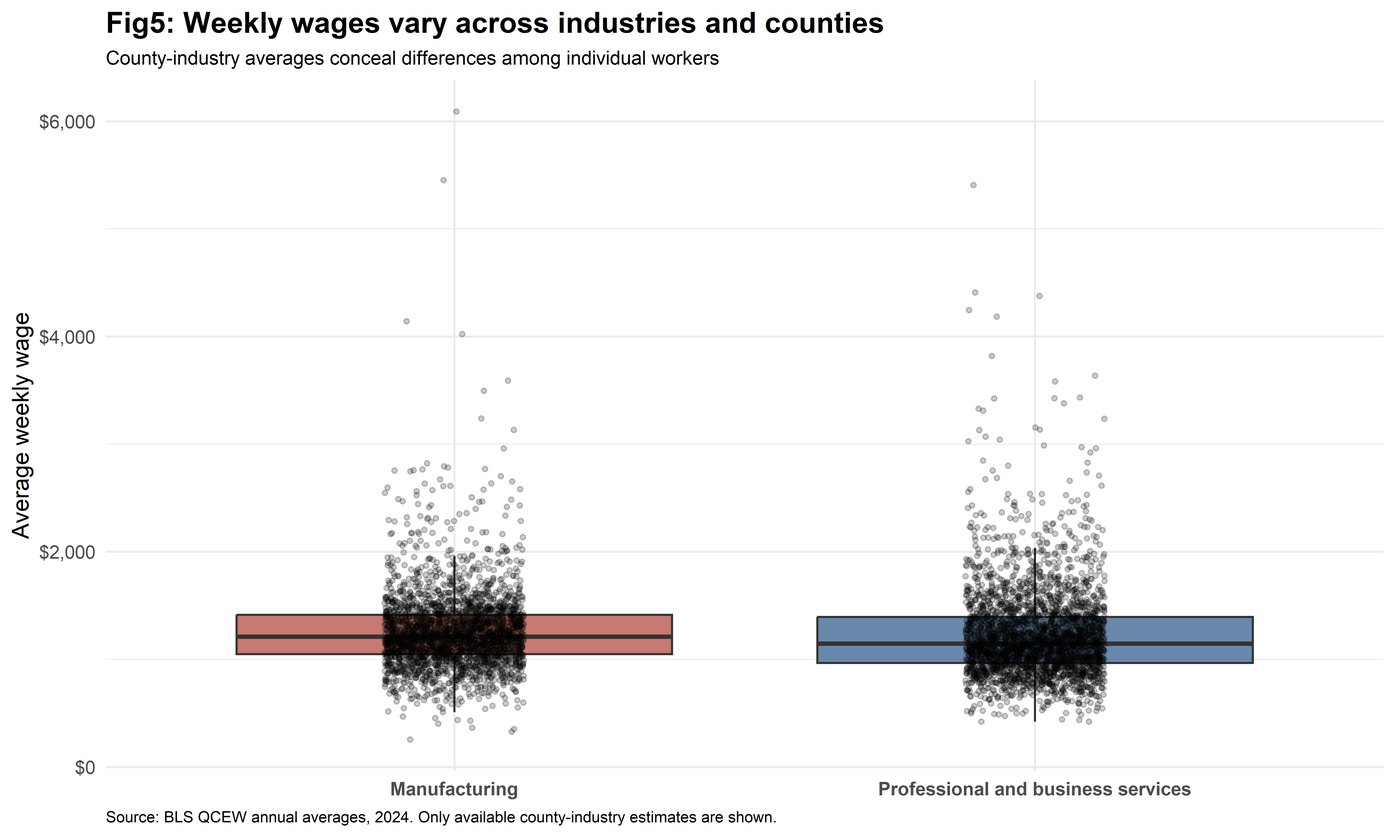
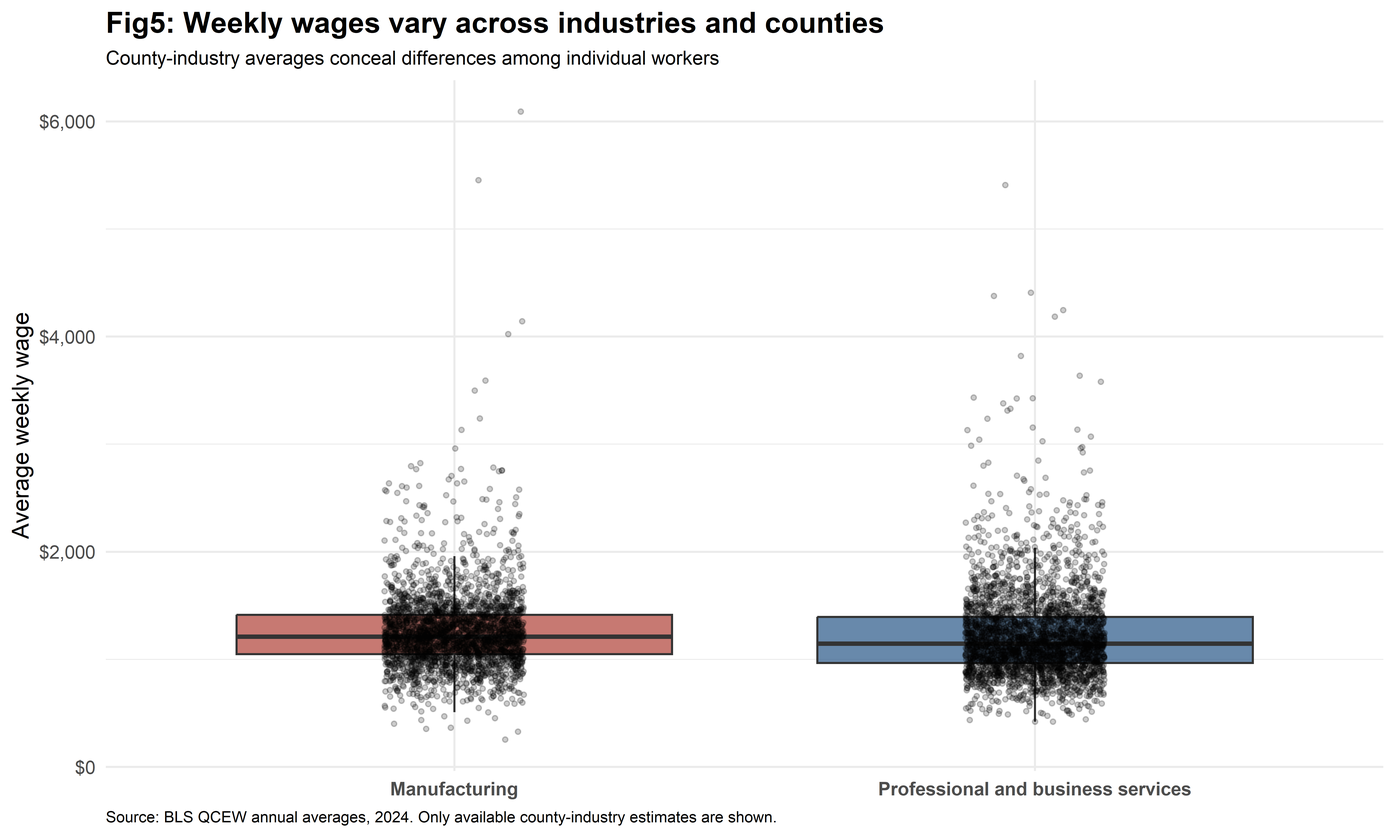
blog5.1

Changed region(s): [[0.6857, 0.4667, 0.8103, 0.8711], [0.2493, 0.5289, 0.374, 0.8711]]

diff --git a/docs/blog/posts/blog5/index.html b/docs/blog/posts/blog5/index.html
@@ -193,30 +193,30 @@ window.Quarto = {
     <h2 id="toc-title">On this page</h2>
    
   <ul class="collapse">
-  <li><a href="#the-geography-of-americas-industries" id="toc-the-geography-of-americas-industries" class="nav-link active" data-scroll-target="#the-geography-of-americas-industries">The Geography of America’s Industries</a>
+  <li><a href="#the-geography-of-americas-industries" id="toc-the-geography-of-americas-industries" class="nav-link active" data-scroll-target="#the-geography-of-americas-industries"><span class="header-section-number">1</span> The Geography of America’s Industries</a>
   <ul class="collapse">
-  <li><a href="#the-broad-industrial-landscape" id="toc-the-broad-industrial-landscape" class="nav-link" data-scroll-target="#the-broad-industrial-landscape">The broad industrial landscape</a></li>
-  <li><a href="#two-case-studies-manufacturing-and-professional-services" id="toc-two-case-studies-manufacturing-and-professional-services" class="nav-link" data-scroll-target="#two-case-studies-manufacturing-and-professional-services">Two case studies: manufacturing and professional services</a></li>
+  <li><a href="#the-broad-industrial-landscape" id="toc-the-broad-industrial-landscape" class="nav-link" data-scroll-target="#the-broad-industrial-landscape"><span class="header-section-number">1.1</span> The broad industrial landscape</a></li>
+  <li><a href="#two-case-studies-manufacturing-and-professional-services" id="toc-two-case-studies-manufacturing-and-professional-services" class="nav-link" data-scroll-target="#two-case-studies-manufacturing-and-professional-services"><span class="header-section-number">1.2</span> Two case studies: manufacturing and professional services</a></li>
   </ul></li>
-  <li><a href="#how-does-industrial-geography-relate-to-household-income-wages-and-jobs" id="toc-how-does-industrial-geography-relate-to-household-income-wages-and-jobs" class="nav-link" data-scroll-target="#how-does-industrial-geography-relate-to-household-income-wages-and-jobs">How Does Industrial Geography Relate to Household Income, Wages, and Jobs?</a>
+  <li><a href="#how-does-industrial-geography-relate-to-household-income-wages-and-jobs" id="toc-how-does-industrial-geography-relate-to-household-income-wages-and-jobs" class="nav-link" data-scroll-target="#how-does-industrial-geography-relate-to-household-income-wages-and-jobs"><span class="header-section-number">2</span> How Does Industrial Geography Relate to Household Income, Wages, and Jobs?</a>
   <ul class="collapse">
-  <li><a href="#does-manufacturing-specialization-correspond-to-higher-household-income" id="toc-does-manufacturing-specialization-correspond-to-higher-household-income" class="nav-link" data-scroll-target="#does-manufacturing-specialization-correspond-to-higher-household-income">Does manufacturing specialization correspond to higher household income?</a></li>
-  <li><a href="#how-do-average-weekly-wages-differ-across-sectors" id="toc-how-do-average-weekly-wages-differ-across-sectors" class="nav-link" data-scroll-target="#how-do-average-weekly-wages-differ-across-sectors">How do average weekly wages differ across sectors?</a></li>
-  <li><a href="#where-are-labor-market-conditions-stronger-or-weaker" id="toc-where-are-labor-market-conditions-stronger-or-weaker" class="nav-link" data-scroll-target="#where-are-labor-market-conditions-stronger-or-weaker">Where are labor-market conditions stronger or weaker?</a></li>
+  <li><a href="#does-manufacturing-specialization-correspond-to-higher-household-income" id="toc-does-manufacturing-specialization-correspond-to-higher-household-income" class="nav-link" data-scroll-target="#does-manufacturing-specialization-correspond-to-higher-household-income"><span class="header-section-number">2.1</span> Does manufacturing specialization correspond to higher household income?</a></li>
+  <li><a href="#how-do-average-weekly-wages-differ-across-sectors" id="toc-how-do-average-weekly-wages-differ-across-sectors" class="nav-link" data-scroll-target="#how-do-average-weekly-wages-differ-across-sectors"><span class="header-section-number">2.2</span> How do average weekly wages differ across sectors?</a></li>
+  <li><a href="#where-are-labor-market-conditions-stronger-or-weaker" id="toc-where-are-labor-market-conditions-stronger-or-weaker" class="nav-link" data-scroll-target="#where-are-labor-market-conditions-stronger-or-weaker"><span class="header-section-number">2.3</span> Where are labor-market conditions stronger or weaker?</a></li>
   </ul></li>
-  <li><a href="#where-are-people-and-skills-concentrated" id="toc-where-are-people-and-skills-concentrated" class="nav-link" data-scroll-target="#where-are-people-and-skills-concentrated">Where Are People and Skills Concentrated?</a>
+  <li><a href="#where-are-people-and-skills-concentrated" id="toc-where-are-people-and-skills-concentrated" class="nav-link" data-scroll-target="#where-are-people-and-skills-concentrated"><span class="header-section-number">3</span> Where Are People and Skills Concentrated?</a>
   <ul class="collapse">
-  <li><a href="#population-change" id="toc-population-change" class="nav-link" data-scroll-target="#population-change">Population change</a></li>
-  <li><a href="#educational-attainment-and-industrial-specialization" id="toc-educational-attainment-and-industrial-specialization" class="nav-link" data-scroll-target="#educational-attainment-and-industrial-specialization">Educational attainment and industrial specialization</a></li>
+  <li><a href="#population-change" id="toc-population-change" class="nav-link" data-scroll-target="#population-change"><span class="header-section-number">3.1</span> Population change</a></li>
+  <li><a href="#educational-attainment-and-industrial-specialization" id="toc-educational-attainment-and-industrial-specialization" class="nav-link" data-scroll-target="#educational-attainment-and-industrial-specialization"><span class="header-section-number">3.2</span> Educational attainment and industrial specialization</a></li>
   </ul></li>
-  <li><a href="#how-are-regional-industries-changing" id="toc-how-are-regional-industries-changing" class="nav-link" data-scroll-target="#how-are-regional-industries-changing">How Are Regional Industries Changing?</a>
+  <li><a href="#how-are-regional-industries-changing" id="toc-how-are-regional-industries-changing" class="nav-link" data-scroll-target="#how-are-regional-industries-changing"><span class="header-section-number">4</span> How Are Regional Industries Changing?</a>
   <ul class="collapse">
-  <li><a href="#manufacturing-employment-change" id="toc-manufacturing-employment-change" class="nav-link" data-scroll-target="#manufacturing-employment-change">Manufacturing employment change</a></li>
-  <li><a href="#do-manufacturing-and-professional-services-grow-in-the-same-places" id="toc-do-manufacturing-and-professional-services-grow-in-the-same-places" class="nav-link" data-scroll-target="#do-manufacturing-and-professional-services-grow-in-the-same-places">Do manufacturing and professional services grow in the same places?</a></li>
+  <li><a href="#manufacturing-employment-change" id="toc-manufacturing-employment-change" class="nav-link" data-scroll-target="#manufacturing-employment-change"><span class="header-section-number">4.1</span> Manufacturing employment change</a></li>
+  <li><a href="#do-manufacturing-and-professional-services-grow-in-the-same-places" id="toc-do-manufacturing-and-professional-services-grow-in-the-same-places" class="nav-link" data-scroll-target="#do-manufacturing-and-professional-services-grow-in-the-same-places"><span class="header-section-number">4.2</span> Do manufacturing and professional services grow in the same places?</a></li>
   </ul></li>
-  <li><a href="#what-do-these-patterns-mean-for-communities" id="toc-what-do-these-patterns-mean-for-communities" class="nav-link" data-scroll-target="#what-do-these-patterns-mean-for-communities">What Do These Patterns Mean for Communities?</a>
+  <li><a href="#what-do-these-patterns-mean-for-communities" id="toc-what-do-these-patterns-mean-for-communities" class="nav-link" data-scroll-target="#what-do-these-patterns-mean-for-communities"><span class="header-section-number">5</span> What Do These Patterns Mean for Communities?</a>
   <ul class="collapse">
-  <li><a href="#key-takeaways" id="toc-key-takeaways" class="nav-link" data-scroll-target="#key-takeaways">Key Takeaways</a></li>
+  <li><a href="#key-takeaways" id="toc-key-takeaways" class="nav-link" data-scroll-target="#key-takeaways"><span class="header-section-number">5.1</span> Key Takeaways</a></li>
   </ul></li>
   </ul>
 </nav>
@@ -267,11 +267,11 @@ window.Quarto = {
 <blockquote class="blockquote">
 <p><strong>The findings reveal geographic associations, not causal effects.</strong></p>
 </blockquote>
-<section id="the-geography-of-americas-industries" class="level1">
-<h1>The Geography of America’s Industries</h1>
+<section id="the-geography-of-americas-industries" class="level1" data-number="1">
+<h1 data-number="1"><span class="header-section-number">1</span> The Geography of America’s Industries</h1>
 <p>Each industry leaves its own geographic footprint. The multi-panel map below shows each major sector’s share of private‑sector county employment. Some industries are widely dispersed across most counties, while others cluster tightly in specific regions.</p>
-<section id="the-broad-industrial-landscape" class="level2">
-<h2 class="anchored" data-anchor-id="the-broad-industrial-landscape">The broad industrial landscape</h2>
+<section id="the-broad-industrial-landscape" class="level2" data-number="1.1">
+<h2 data-number="1.1" class="anchored" data-anchor-id="the-broad-industrial-landscape"><span class="header-section-number">1.1</span> The broad industrial landscape</h2>
 <p>These county-level maps show each major industry’s share of private-sector jobs in 2024, revealing sharply different geographic footprints. Trade and construction appear broadly nationwide, while education-health jobs anchor many small rural counties. Manufacturing concentrates in the Midwest and South. Information, finance and professional services cluster in large metro areas, and resource extraction only lights up resource-rich counties. Note that high employment share can reflect tiny total jobs in sparse rural counties.</p>
 <div class="cell">
 <div class="cell-output-display">
@@ -284,8 +284,8 @@ window.Quarto = {
 </div>
 </div>
 </section>
-<section id="two-case-studies-manufacturing-and-professional-services" class="level2">
-<h2 class="anchored" data-anchor-id="two-case-studies-manufacturing-and-professional-services">Two case studies: manufacturing and professional services</h2>
+<section id="two-case-studies-manufacturing-and-professional-services" class="level2" data-number="1.2">
+<h2 data-number="1.2" class="anchored" data-anchor-id="two-case-studies-manufacturing-and-professional-services"><span class="header-section-number">1.2</span> Two case studies: manufacturing and professional services</h2>
 <p>Manufacturing builds physical goods and sustains sprawling supply chains, often tied to community debates about good local jobs. Professional and business services include consulting and technical work that powers modern firms. This analysis single out these sectors for comparison as they stand for two currently vital economic paths: goods production and knowledge work. Their contrasting geographic clusters create a natural lens to investigate whether industry specialization translates into better economic outcomes for county residents.</p>
 <p>A <strong>location quotient (LQ)</strong> compares an industry’s share of local private employment with its share of national private employment:</p>
 <p><span class="math inline">\(LQ_{ic} =\frac{\text{Industry employment}_{ic}/\text{Private employment}_{c}}{\text{National industry employment}_{i}/\text{National private employment}}\)</span></p>
@@ -313,11 +313,11 @@ window.Quarto = {
 <p>Manufacturing specialization while professional‑business services cluster heavily in major metro areas. Counties with manufacturing specialization are scattered across the Midwest and rural South,concentrating across many non‑metropolitan counties. Professional-business services specialization, cluster heavily in major metro areas. High LQ signals local job concentration in that industry.</p>
 </section>
 </section>
-<section id="how-does-industrial-geography-relate-to-household-income-wages-and-jobs" class="level1">
-<h1>How Does Industrial Geography Relate to Household Income, Wages, and Jobs?</h1>
+<section id="how-does-industrial-geography-relate-to-household-income-wages-and-jobs" class="level1" data-number="2">
+<h1 data-number="2"><span class="header-section-number">2</span> How Does Industrial Geography Relate to Household Income, Wages, and Jobs?</h1>
 <p>We often assume more local jobs equal richer residents and more job opportunities, is that really the case?</p>
-<section id="does-manufacturing-specialization-correspond-to-higher-household-income" class="level2">
-<h2 class="anchored" data-anchor-id="does-manufacturing-specialization-correspond-to-higher-household-income">Does manufacturing specialization correspond to higher household income?</h2>
+<section id="does-manufacturing-specialization-correspond-to-higher-household-income" class="level2" data-number="2.1">
+<h2 data-number="2.1" class="anchored" data-anchor-id="does-manufacturing-specialization-correspond-to-higher-household-income"><span class="header-section-number">2.1</span> Does manufacturing specialization correspond to higher household income?</h2>
 <div class="cell">
 <div class="cell-output-display">
 <div class="quarto-figure quarto-figure-center">
@@ -330,8 +330,8 @@ window.Quarto = {
 </div>
 <p>This scatter plot compares counties’ manufacturing location quotient to resident median household income. A modest manufacturing presence can support household incomes by supplying solid blue-collar work. But counties overly specialized in manufacturing face risks from sectoral shocks and limited alternative job opportunities, so income no longer rises and may even fall. The scattered points show manufacturing jobs alone cannot determine residents’ prosperity. Because workers commute across county boundaries, factory job concentration does not guarantee local households capture the economic gains from that industrial activity.</p>
 </section>
-<section id="how-do-average-weekly-wages-differ-across-sectors" class="level2">
-<h2 class="anchored" data-anchor-id="how-do-average-weekly-wages-differ-across-sectors">How do average weekly wages differ across sectors?</h2>
+<section id="how-do-average-weekly-wages-differ-across-sectors" class="level2" data-number="2.2">
+<h2 data-number="2.2" class="anchored" data-anchor-id="how-do-average-weekly-wages-differ-across-sectors"><span class="header-section-number">2.2</span> How do average weekly wages differ across sectors?</h2>
 <div class="cell">
 <div class="cell-output-display">
 <div class="quarto-figure quarto-figure-center">
@@ -344,8 +344,8 @@ window.Quarto = {
 </div>
 <p>Are professional service jobs consistently better paid than manufacturing roles? This graph compares county average weekly wages across the two sectors. Professional and business services have a higher typical county wage, rewarding specialized technical and analytical skills. But wages vary widely within each sector from county to county. Remember these figures are county averages, hiding big gaps between individual workers. Industry sets the baseline for pay, yet local economic conditions also shape what workers ultimately earn.</p>
 </section>
-<section id="where-are-labor-market-conditions-stronger-or-weaker" class="level2">
-<h2 class="anchored" data-anchor-id="where-are-labor-market-conditions-stronger-or-weaker">Where are labor-market conditions stronger or weaker?</h2>
+<section id="where-are-labor-market-conditions-stronger-or-weaker" class="level2" data-number="2.3">
+<h2 data-number="2.3" class="anchored" data-anchor-id="where-are-labor-market-conditions-stronger-or-weaker"><span class="header-section-number">2.3</span> Where are labor-market conditions stronger or weaker?</h2>
 <div class="cell">
 <div class="cell-output-display">
 <div class="quarto-figure quarto-figure-center">
@@ -367,11 +367,11 @@ window.Quarto = {
 <p>These two maps show clear regional disparities tied to local industry composition. Counties with strong professional and business services tend to display low unemployment and high employment-population ratios, reflecting abundant skilled work. Many rural counties reliant on manufacturing or resource industries often see elevated unemployment and weaker adult employment rates. Some tourism-dependent counties show volatile labor outcomes. This reveals that the industrial footprint we mapped earlier shapes residents’ job prospects as the mix of local jobs determines both unemployment levels and broader workforce participation.</p>
 </section>
 </section>
-<section id="where-are-people-and-skills-concentrated" class="level1">
-<h1>Where Are People and Skills Concentrated?</h1>
+<section id="where-are-people-and-skills-concentrated" class="level1" data-number="3">
+<h1 data-number="3"><span class="header-section-number">3</span> Where Are People and Skills Concentrated?</h1>
 <p>We now examine how industries shape a region’s ability to attract residents. Population and human capital reveal the pull of local economies: population size reflects the scale of the labor market, while educational attainment captures formal schooling among residents. The share of adults aged 25 and older holding a bachelor’s degree or higher acts as our <strong>proxy for one dimension of human capital</strong>. This statistic cannot directly measure practical skills, work experience, labor productivity, or differences in education quality.</p>
-<section id="population-change" class="level2">
-<h2 class="anchored" data-anchor-id="population-change">Population change</h2>
+<section id="population-change" class="level2" data-number="3.1">
+<h2 data-number="3.1" class="anchored" data-anchor-id="population-change"><span class="header-section-number">3.1</span> Population change</h2>
 <div class="cell">
 <div class="cell-output-display">
 <div class="quarto-figure quarto-figure-center">
@@ -384,8 +384,8 @@ window.Quarto = {
 </div>
 <p>Counties with expanding professional and business services often see population gains, as knowledge jobs draw working-age households. Many rural manufacturing counties face population losses, because shrinking factory employment reduces the region’s pull. Red regions lose residents while blue regions grow. Please note that these percentage changes combine migration, births and deaths and they cannot be attributed solely to people moving for jobs.</p>
 </section>
-<section id="educational-attainment-and-industrial-specialization" class="level2">
-<h2 class="anchored" data-anchor-id="educational-attainment-and-industrial-specialization">Educational attainment and industrial specialization</h2>
+<section id="educational-attainment-and-industrial-specialization" class="level2" data-number="3.2">
+<h2 data-number="3.2" class="anchored" data-anchor-id="educational-attainment-and-industrial-specialization"><span class="header-section-number">3.2</span> Educational attainment and industrial specialization</h2>
 <div class="cell">
 <div class="cell-output-display">
 <div class="quarto-figure quarto-figure-center">
@@ -399,11 +399,11 @@ window.Quarto = {
 <p>This scatterplot visualizes the mutual attraction between educated workers and local industries. The rising blue trend line for professional and business services shows that counties with more college graduates become increasingly specialized in knowledge-intensive work: the industry draws educated talent, and this talent in turn supports further industry growth. Manufacturing’s red inverted-U curve tells a different story. Manufacturing specialization peaks at moderate bachelor-degree shares; in counties with very high educational attainment, manufacturing location quotients decline, as highly educated residents tend not to cluster in manufacturing-specialized regions.</p>
 </section>
 </section>
-<section id="how-are-regional-industries-changing" class="level1">
-<h1>How Are Regional Industries Changing?</h1>
+<section id="how-are-regional-industries-changing" class="level1" data-number="4">
+<h1 data-number="4"><span class="header-section-number">4</span> How Are Regional Industries Changing?</h1>
 <p>Maps of industrial concentration show where different industries are specialized, but they capture only one point in time. Comparing county-level employment in 2019 and 2024 reveals where industries expanded or contracted, helping us understand how regional economic structures have shifted. Examining manufacturing alongside professional and business services also highlights whether different types of local economies followed similar or contrasting employment trends.</p>
-<section id="manufacturing-employment-change" class="level2">
-<h2 class="anchored" data-anchor-id="manufacturing-employment-change">Manufacturing employment change</h2>
+<section id="manufacturing-employment-change" class="level2" data-number="4.1">
+<h2 data-number="4.1" class="anchored" data-anchor-id="manufacturing-employment-change"><span class="header-section-number">4.1</span> Manufacturing employment change</h2>
 <div class="cell">
 <div class="cell-output-display">
 <div class="quarto-figure quarto-figure-center">
@@ -416,8 +416,8 @@ window.Quarto = {
 </div>
 <p>This county-level map reveals uneven shifts in manufacturing employment from 2019 to 2024. Parts of the traditional industrial heartland experienced manufacturing job losses, while scattered counties across the South and some western regions saw manufacturing employment expand. These divergent outcomes reshape regional industrial attractiveness: areas losing factory jobs become less appealing to production workers, while counties gaining manufacturing work draw residents seeking blue-collar roles.</p>
 </section>
-<section id="do-manufacturing-and-professional-services-grow-in-the-same-places" class="level2">
-<h2 class="anchored" data-anchor-id="do-manufacturing-and-professional-services-grow-in-the-same-places">Do manufacturing and professional services grow in the same places?</h2>
+<section id="do-manufacturing-and-professional-services-grow-in-the-same-places" class="level2" data-number="4.2">
+<h2 data-number="4.2" class="anchored" data-anchor-id="do-manufacturing-and-professional-services-grow-in-the-same-places"><span class="header-section-number">4.2</span> Do manufacturing and professional services grow in the same places?</h2>
 <div class="cell">
 <div class="cell-output-display">
 <div class="quarto-figure quarto-figure-center">
@@ -431,11 +431,11 @@ window.Quarto = {
 <p>A minority of counties expand employment in both industries. More commonly, growth happens in only one sector: some counties gain manufacturing jobs without professional service growth, while others expand professional services with weak manufacturing performance. Some counties lose jobs in both sectors. These varied trajectories reveal the two industries favor different locations and draw different worker groups. (This metric only records net change and cannot isolate pandemic or policy effects.)</p>
 </section>
 </section>
-<section id="what-do-these-patterns-mean-for-communities" class="level1">
-<h1>What Do These Patterns Mean for Communities?</h1>
+<section id="what-do-these-patterns-mean-for-communities" class="level1" data-number="5">
+<h1 data-number="5"><span class="header-section-number">5</span> What Do These Patterns Mean for Communities?</h1>
 <p>Industrial structure shapes local job opportunities, but specialization does not guarantee prosperity. Manufacturing is prominent in many Midwestern and Southern counties, while professional and business services concentrate in metropolitan areas. However, household income also depends on wages, education, labor-market conditions, and population trends. Employment growth from 2019 to 2024 varies across counties and industries. Understanding local economies therefore requires looking beyond dominant industries to assess job access, pay, and long-term opportunities. These patterns show regional differences, not causal relationships.</p>
-<section id="key-takeaways" class="level2">
-<h2 class="anchored" data-anchor-id="key-takeaways">Key Takeaways</h2>
+<section id="key-takeaways" class="level2" data-number="5.1">
+<h2 data-number="5.1" class="anchored" data-anchor-id="key-takeaways"><span class="header-section-number">5.1</span> Key Takeaways</h2>
 <ul>
 <li><strong>Specialization is not prosperity:</strong> A high location quotient indicates relative industry concentration, not necessarily more jobs or higher household income.</li>
 <li><strong>Employment, wages, and income measure different things:</strong> Workplace-based job and wage data do not directly capture residents’ financial well-being.</li>
@@ -917,7 +917,7 @@ window.Quarto = {
 <span id="cb1-12"><a href="#cb1-12" aria-hidden="true" tabindex="-1"></a><span class="co">    theme: cosmo</span></span>
 <span id="cb1-13"><a href="#cb1-13" aria-hidden="true" tabindex="-1"></a><span class="co">    toc: true</span></span>
 <span id="cb1-14"><a href="#cb1-14" aria-hidden="true" tabindex="-1"></a><span class="co">    toc-depth: 2</span></span>
-<span id="cb1-15"><a href="#cb1-15" aria-hidden="true" tabindex="-1"></a><span class="co">    number-sections: false</span></span>
+<span id="cb1-15"><a href="#cb1-15" aria-hidden="true" tabindex="-1"></a><span class="co">    number-sections: true</span></span>
 <span id="cb1-16"><a href="#cb1-16" aria-hidden="true" tabindex="-1"></a><span class="co">    code-fold: true</span></span>
 <span id="cb1-17"><a href="#cb1-17" aria-hidden="true" tabindex="-1"></a><span class="co">    code-tools: true</span></span>
 <span id="cb1-18"><a href="#cb1-18" aria-hidden="true" tabindex="-1"></a><span class="co">    fig-width: 10</span></span>

diff --git a/docs/blog/index.html b/docs/blog/index.html
@@ -211,7 +211,7 @@ window.Quarto = {
 
 <div class="quarto-listing quarto-listing-container-default" id="listing-listing">
 <div class="list quarto-listing-default">
-<div class="quarto-post image-right" data-index="0" data-categories="cmVnaW9uYWwtZWNvbm9taWNzJTJDR0lTJTJDbGFib3ItbWFya2V0cw==" data-listing-date-sort="1792382400000" data-listing-file-modified-sort="1792467626295" data-listing-date-modified-sort="NaN" data-listing-reading-time-sort="32" data-listing-word-count-sort="6252">
+<div class="quarto-post image-right" data-index="0" data-categories="cmVnaW9uYWwtZWNvbm9taWNzJTJDR0lTJTJDbGFib3ItbWFya2V0cw==" data-listing-date-sort="1792382400000" data-listing-file-modified-sort="1792472246329" data-listing-date-modified-sort="NaN" data-listing-reading-time-sort="32" data-listing-word-count-sort="6252">
 <div class="thumbnail"><a href="../blog/posts/blog5/index.html" class="no-external">
 
 <p class="card-img-top"><img loading='lazy' src="posts\blog5\index_files\figure-html\figure1-industry-map-1.png"  class="thumbnail-image card-img"/></p>
